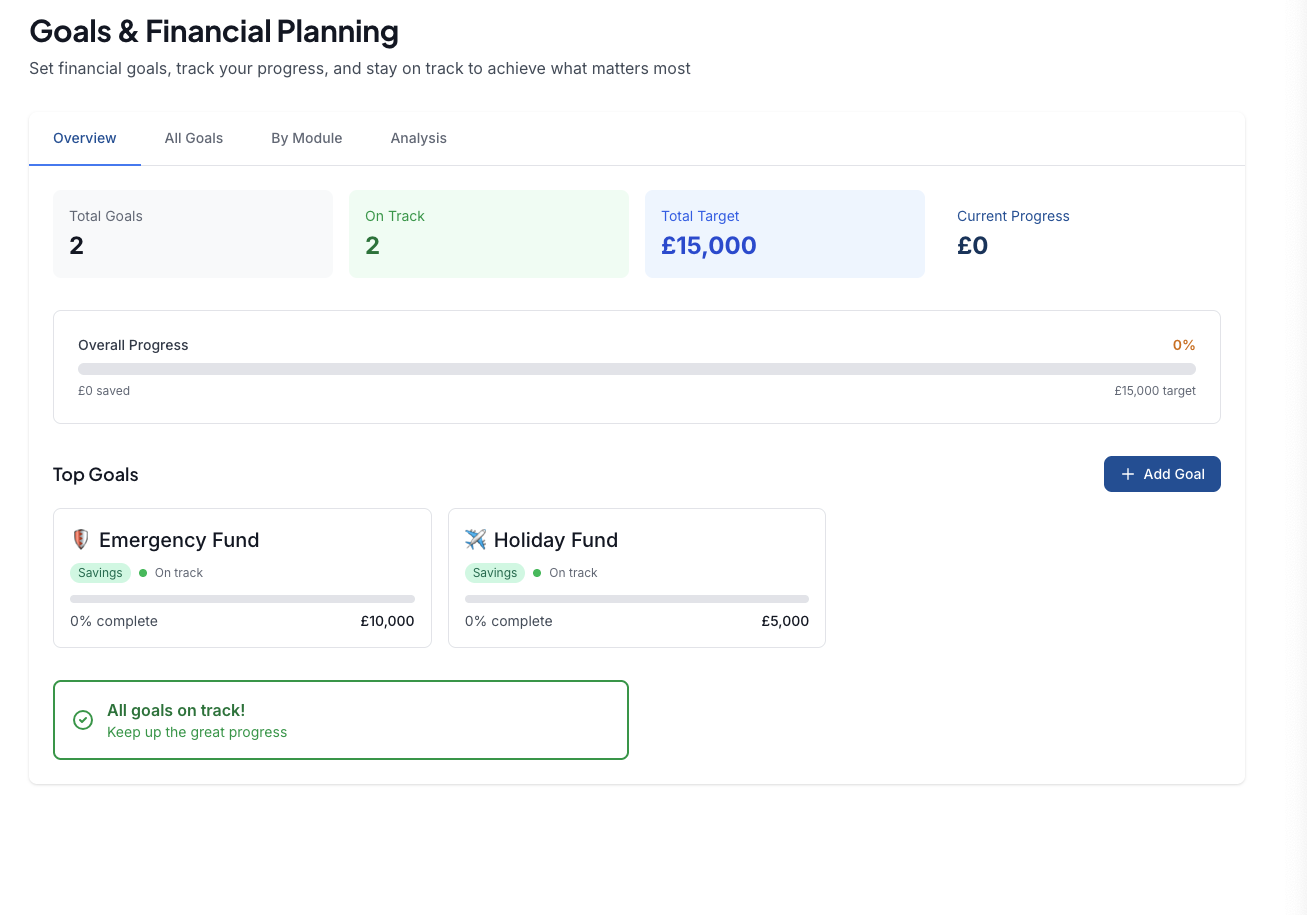
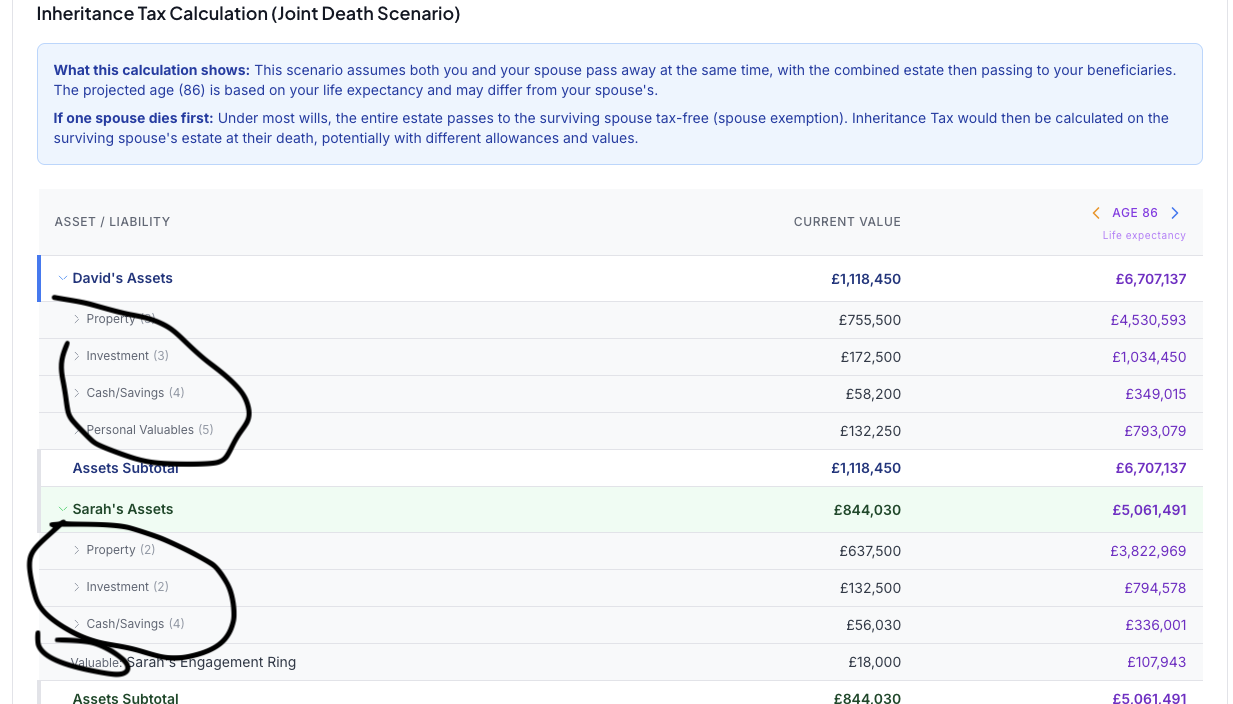
fix: "Add Fees" link opens edit form when no fees exist
When no fees are entered on an investment account, clicking "Add Fees"
now opens the account edit form instead of navigating to the empty
fees detail panel. Once fees exist, clicking the card navigates to
the fees tab to view fee breakdown.

- Added 'edit-account' emit to AccountPerformancePanel
- New handleFeesClick() method checks for existing fees
- InvestmentDetailInline listens for edit-account to open modal

diff --git a/resources/js/views/Investment/AccountPerformancePanel.vue b/resources/js/views/Investment/AccountPerformancePanel.vue
@@ -123,7 +123,7 @@
           <!-- Fees Summary Card -->
           <div
             class="insight-card cursor-pointer hover:shadow-md transition-shadow"
-            @click="goToFeesTab"
+            @click="handleFeesClick"
           >
             <h4 class="text-sm font-semibold text-gray-900 mb-3">Total Fees</h4>
 
@@ -312,7 +312,7 @@ export default {
     },
   },
 
-  emits: ['change-tab', 'add-holding'],
+  emits: ['change-tab', 'add-holding', 'edit-account'],
 
   data() {
     return {
@@ -697,6 +697,16 @@ export default {
 
     goToFeesTab() {
       this.$emit('change-tab', 'fees');
+    },
+
+    handleFeesClick() {
+      // If no fees entered, open edit form to add fees
+      // Otherwise, navigate to fees tab to view fee details
+      if (!this.hasHoldings && this.totalFeePercent === 0) {
+        this.$emit('edit-account');
+      } else {
+        this.goToFeesTab();
+      }
     },
 
     getTotalFeeClass() {

diff --git a/resources/js/components/NetWorth/InvestmentDetailInline.vue b/resources/js/components/NetWorth/InvestmentDetailInline.vue
@@ -118,6 +118,7 @@
             :account="account"
             @change-tab="handleTabChange"
             @add-holding="openHoldingModal(null)"
+            @edit-account="showEditModal = true"
           />
 
           <!-- Rebalancing Tab -->

diff --git a/Jan26Updates/deploy26.md b/Jan26Updates/deploy26.md
@@ -1134,6 +1134,65 @@ Frontend Vue files changed. Run build script before uploading.
 
 ---
 
+## Bug Fix: "Add Fees" Link Goes to Wrong Page
+
+**Branch:** ihtBugs
+
+**Status:** READY FOR DEPLOYMENT
+
+### Issue
+
+In the Investment account details view (Performance tab), when there are no fees entered, clicking the "Add Fees" link navigated to the Fees detail panel instead of opening the Edit form where users can actually enter fees.
+
+### Root Cause
+
+The Fees Summary Card always called `goToFeesTab()` on click, which navigated to the AccountFeesPanel (a read-only display of fee calculations). But when no fees exist, users need to open the account edit form to enter platform fees, advisor fees, etc.
+
+### Fix
+
+Updated `AccountPerformancePanel.vue`:
+1. Added new emit: `'edit-account'`
+2. Changed click handler from `goToFeesTab` to new `handleFeesClick` method
+3. `handleFeesClick` checks if no fees exist (`!hasHoldings && totalFeePercent === 0`):
+   - If no fees: emits `'edit-account'` to open edit form
+   - If has fees: navigates to fees tab as before
+
+Updated `InvestmentDetailInline.vue`:
+1. Added `@edit-account="showEditModal = true"` to AccountPerformancePanel usage
+
+### Files Changed
+
+**Frontend (Rebuild Required):**
+```
+resources/js/views/Investment/AccountPerformancePanel.vue
+resources/js/components/NetWorth/InvestmentDetailInline.vue
+```
+
+### Rebuild Required: YES
+
+Frontend Vue files changed. Run build script before uploading.
+
+```bash
+./deploy/fynla-org/build.sh
+```
+
+### Upload Checklist
+
+1. Run build script
+2. Upload `public/build/` directory
+
+### Verification
+
+1. Navigate to Net Worth → Investments tab
+2. Click on an account that has NO fees entered
+3. In the Performance tab, look for "Total Fees" card showing "Add Fees" link
+4. Click "Add Fees"
+5. Should open the Edit Account form (NOT navigate to the Fees tab)
+6. Enter platform fee and save
+7. Click on Total Fees card again → should now navigate to Fees tab (showing fee details)
+
+---
+
 ### Deferred Tasks
 
 | Task | Reason |

diff --git a/Jan20Deploy/bug062.md b/Jan20Deploy/bug062.md
@@ -8927,3 +8927,54 @@ database/migrations/2026_01_26_000001_add_contribution_fields_to_savings_account
 - Requires migration: `php artisan migrate --force`
 - Requires rebuild: `./deploy/fynla-org/build.sh`
 - Branch: ihtBugs
+
+---
+
+## BUG-034: "Add Fees" Link Goes to Wrong Page
+
+**Date:** 26 January 2026
+**Severity:** Low (UX Issue)
+**Status:** Fixed
+
+### Description
+
+In the Investment account details view (Performance tab), when there are no fees entered, clicking the "Add Fees" link in the Total Fees card navigated to the Fees detail panel instead of opening the Edit form where users can actually enter fees.
+
+### Root Cause
+
+The Fees Summary Card always called `goToFeesTab()` on click, which navigated to the AccountFeesPanel (a read-only display of fee calculations). But when no fees exist, users need to open the account edit form to enter platform fees, advisor fees, etc.
+
+### Fix
+
+Updated `AccountPerformancePanel.vue`:
+1. Added new emit: `'edit-account'`
+2. Changed click handler from `goToFeesTab` to new `handleFeesClick` method
+3. `handleFeesClick` checks if no fees exist (`!hasHoldings && totalFeePercent === 0`):
+   - If no fees: emits `'edit-account'` to open edit form
+   - If has fees: navigates to fees tab as before
+
+Updated `InvestmentDetailInline.vue`:
+1. Added `@edit-account="showEditModal = true"` to AccountPerformancePanel usage
+
+### Files Modified
+
+**Frontend:**
+```text
+resources/js/views/Investment/AccountPerformancePanel.vue
+resources/js/components/NetWorth/InvestmentDetailInline.vue
+```
+
+### Verification
+
+1. Navigate to Net Worth → Investments tab
+2. Click on an account that has NO fees entered
+3. In the Performance tab, look for "Total Fees" card showing "Add Fees" link
+4. Click "Add Fees"
+5. Should open the Edit Account form (NOT navigate to the Fees tab)
+6. Enter platform fee and save
+7. Click on Total Fees card again → should now navigate to Fees tab (showing fee details)
+
+### Notes
+
+- Requires rebuild: `./deploy/fynla-org/build.sh`
+- Branch: ihtBugs
